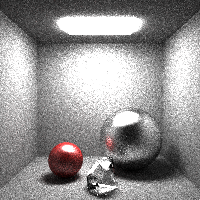
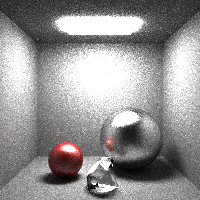
don't focus all materials in render
Reduces the variance from ~9 to ~5.5. This is like taking 0.6x as many
samples.

diff --git a/render3d/focus_point.go b/render3d/focus_point.go
@@ -32,13 +32,17 @@ type PhongFocusPoint struct {
 	// Alpha is the amount of focus to put on the target
 	// direction.
 	Alpha float64
+
+	// MaterialFilter, if non-nil, is called to see if a
+	// given material needs to be focused on a light.
+	MaterialFilter func(m Material) bool
 }
 
 // SampleFocus samples a point that is more
 // concentrated in the direction of Target.
 func (p *PhongFocusPoint) SampleFocus(gen *rand.Rand, mat Material, point, normal,
 	dest model3d.Coord3D) model3d.Coord3D {
-	if p.Target == point {
+	if p.Target == point || !p.focusMaterial(mat) {
 		return mat.SampleSource(gen, normal, dest)
 	}
 	direction := point.Sub(p.Target).Normalize()
@@ -49,9 +53,16 @@ func (p *PhongFocusPoint) SampleFocus(gen *rand.Rand, mat Material, point, norma
 // the given direction.
 func (p *PhongFocusPoint) FocusDensity(mat Material, point, normal, source,
 	dest model3d.Coord3D) float64 {
-	if p.Target == point {
+	if p.Target == point || !p.focusMaterial(mat) {
 		return mat.SourceDensity(normal, source, dest)
 	}
 	direction := point.Sub(p.Target).Normalize()
 	return densityAroundDirection(p.Alpha, direction, source)
+}
+
+func (p *PhongFocusPoint) focusMaterial(mat Material) bool {
+	if p.MaterialFilter != nil {
+		return p.MaterialFilter(mat)
+	}
+	return true
 }

diff --git a/examples/apis/render/main.go b/examples/apis/render/main.go
@@ -90,7 +90,18 @@ func main() {
 		FocusPoints: []render3d.FocusPoint{
 			&render3d.PhongFocusPoint{
 				Target: model3d.Coord3D{X: 0, Y: 6, Z: 6.9},
-				Alpha:  10.0,
+				Alpha:  40.0,
+				MaterialFilter: func(m render3d.Material) bool {
+					if _, ok := m.(*render3d.LambertMaterial); ok {
+						return true
+					} else if phong, ok := m.(*render3d.PhongMaterial); ok {
+						return phong.DiffuseColor.Sum() > 0
+					} else {
+						// Don't focus sharp materials like refraction
+						// and specular-only phong materials.
+						return false
+					}
+				},
 			},
 		},
 		FocusPointProbs: []float64{0.3},
